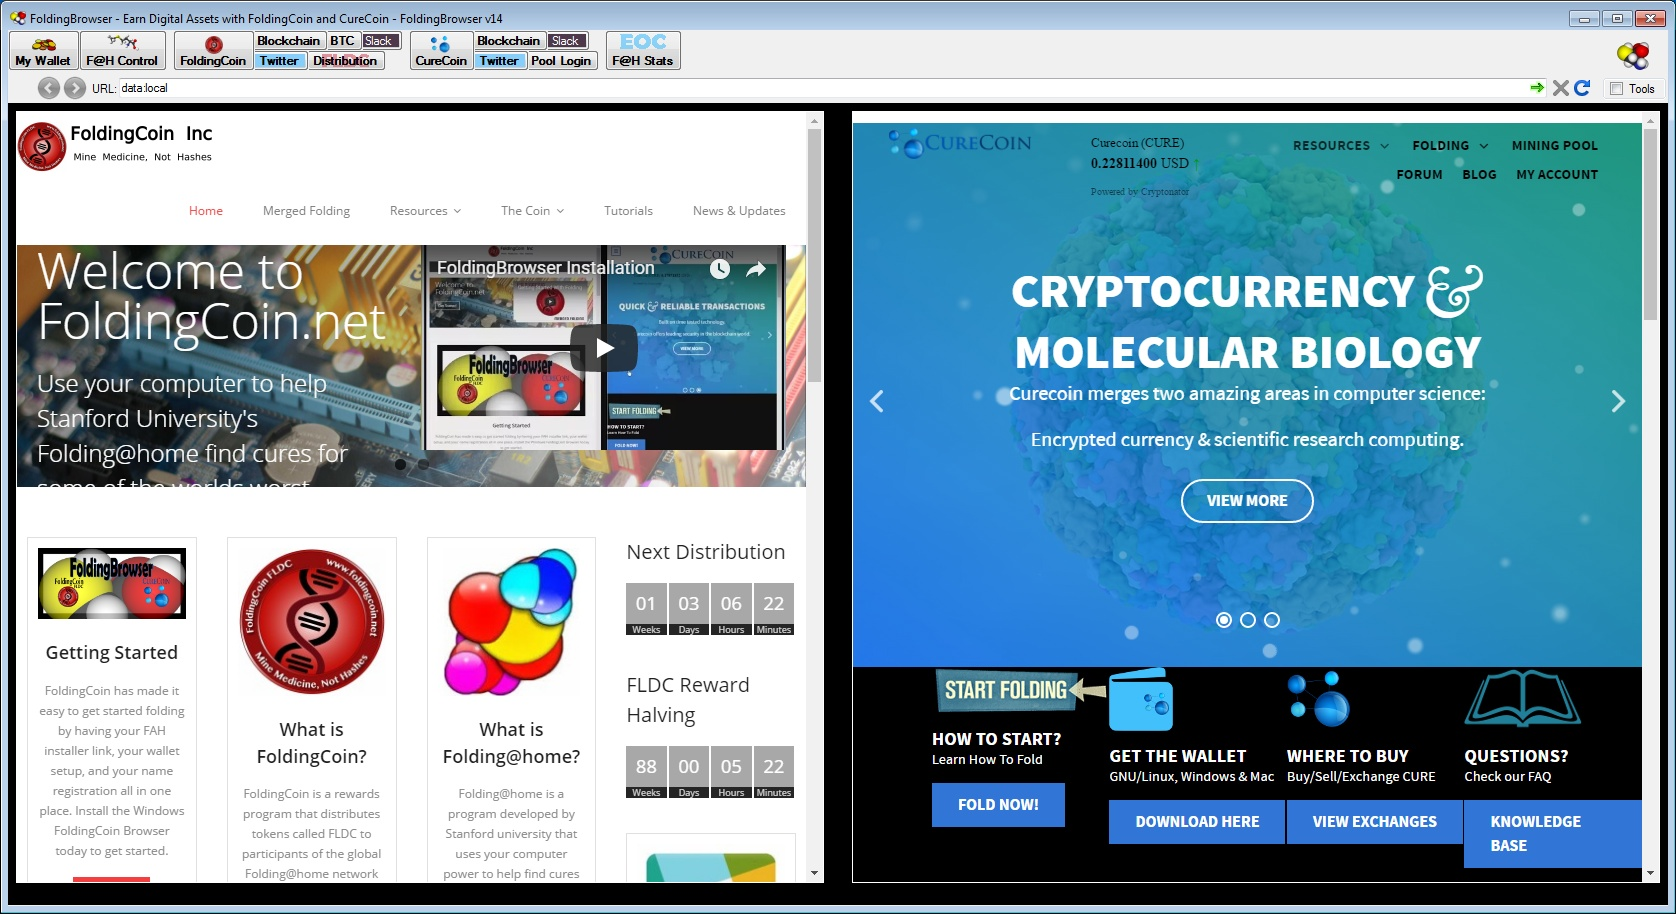
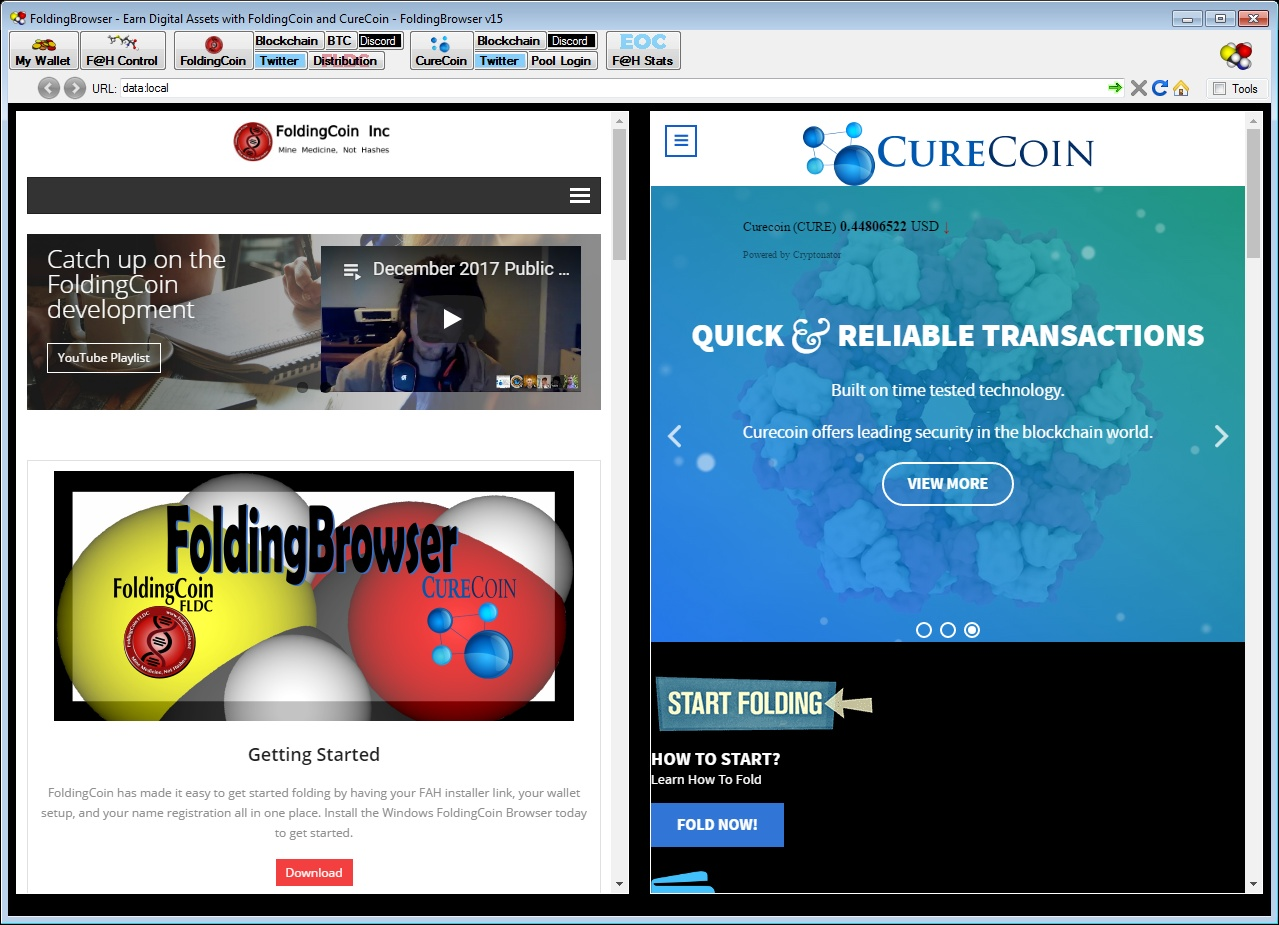
v15 release changes: Adding attempts to pressing the EOC button to get the UserId from searching for their FAH Username. Renamed installers to have underscores. Improving FAH settings setup dialog behavior.

diff --git a/README.md b/README.md
@@ -1,13 +1,13 @@
 # FoldingBrowser
 
-[![FoldingBrowser Logo](FoldingBrowserTitle.png)](http://foldingcoin.net/ "FoldingCoin")
+(FoldingBrowserTitle.png)
 
-[FoldingCoin](http://foldingcoin.net/) & [CureCoin](http://curecoin.net/) All-In-One Installer, [FoldingCoin](http://foldingcoin.net/) Web Wallet interface
+[FoldingCoin](http://foldingcoin.net/) & [CureCoin](http://curecoin.net/) All-In-One Installer
 
 ## Releases
 
 - **See [FoldingBrowser Releases](https://github.com/Hou5e/FoldingBrowser/releases) for the Windows installer**
-- **FoldingBrowser [Screenshot](Screenshot.jpg), and [Setup Video](https://www.youtube.com/watch?v=P9qwONSZnCk). Please ask questions on the Slack Contact links below**
+- **FoldingBrowser [Screenshot](Screenshot.jpg), [Setup Video](https://www.youtube.com/playlist?list=PLMWSISjQe0XFz9bFy5KXLq4hrgFH-94eI). Please ask questions on the Discord Contact links below**
 - FoldingBrowser is written in VB.NET, compiled with VS2015, targeting the .NET Framework v4.5.2
 - Currently based on [cefsharp/57](https://github.com/cefsharp/CefSharp/tree/cefsharp/57) Chrome / Chromium Embedded Framework (CEF)
   - Requires: VC++ 2013 x86 Redist & .NET v4.5.2
@@ -19,7 +19,7 @@
 
 ## Contact
 
-**Please ask questions on Slack (I'm user Hou5e):**
-  * [FoldingCoin New User Slack Signup Link](http://slack.foldingcoin.net/) -- [FoldingCoin Slack](https://foldingcoin.slack.com/)
-  * [CureCoin New User Slack Signup Link](http://slack.curecoin.net:30000/) -- [CureCoin Slack](https://curecoin.slack.com/)
+**Please ask questions on Discord (I'm user Hou5e):**
+  * [FoldingCoin New User Discord Invite](https://discord.gg/CvZ7gAs)
+  * [CureCoin New User Discord Invite](https://discord.gg/jtztkFZ)
   * BitcoinTalk forum for: [FoldingCoin](https://bitcointalk.org/index.php?topic=781352), or [CureCoin](https://bitcointalk.org/index.php?topic=603757)
